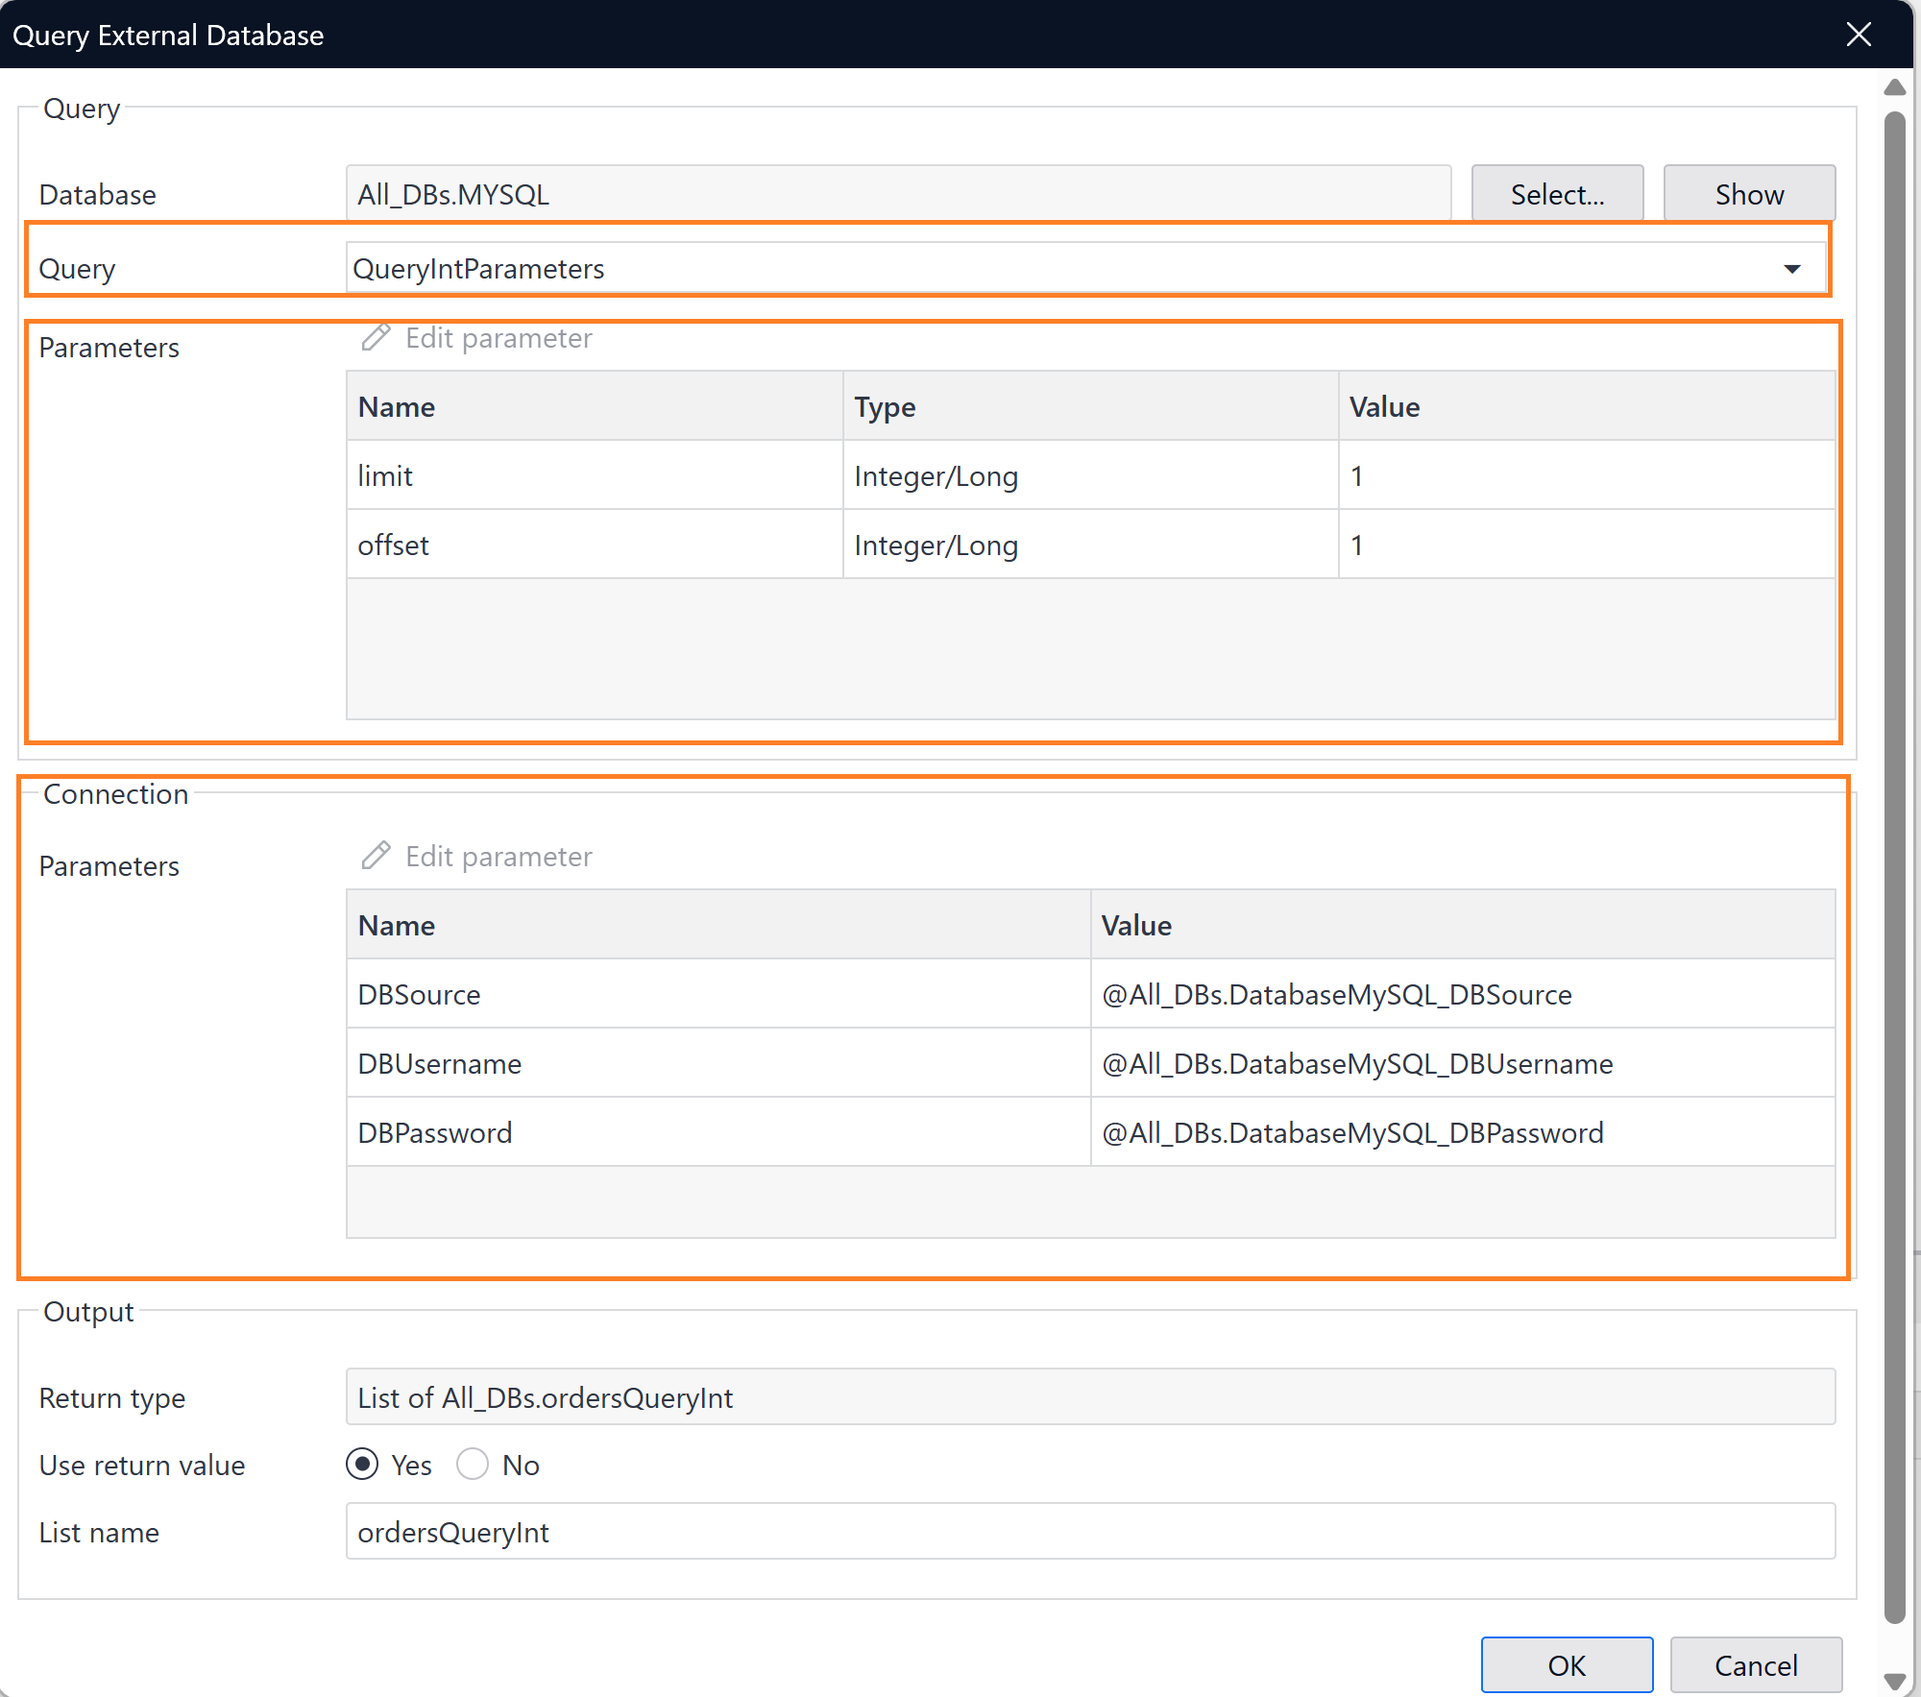
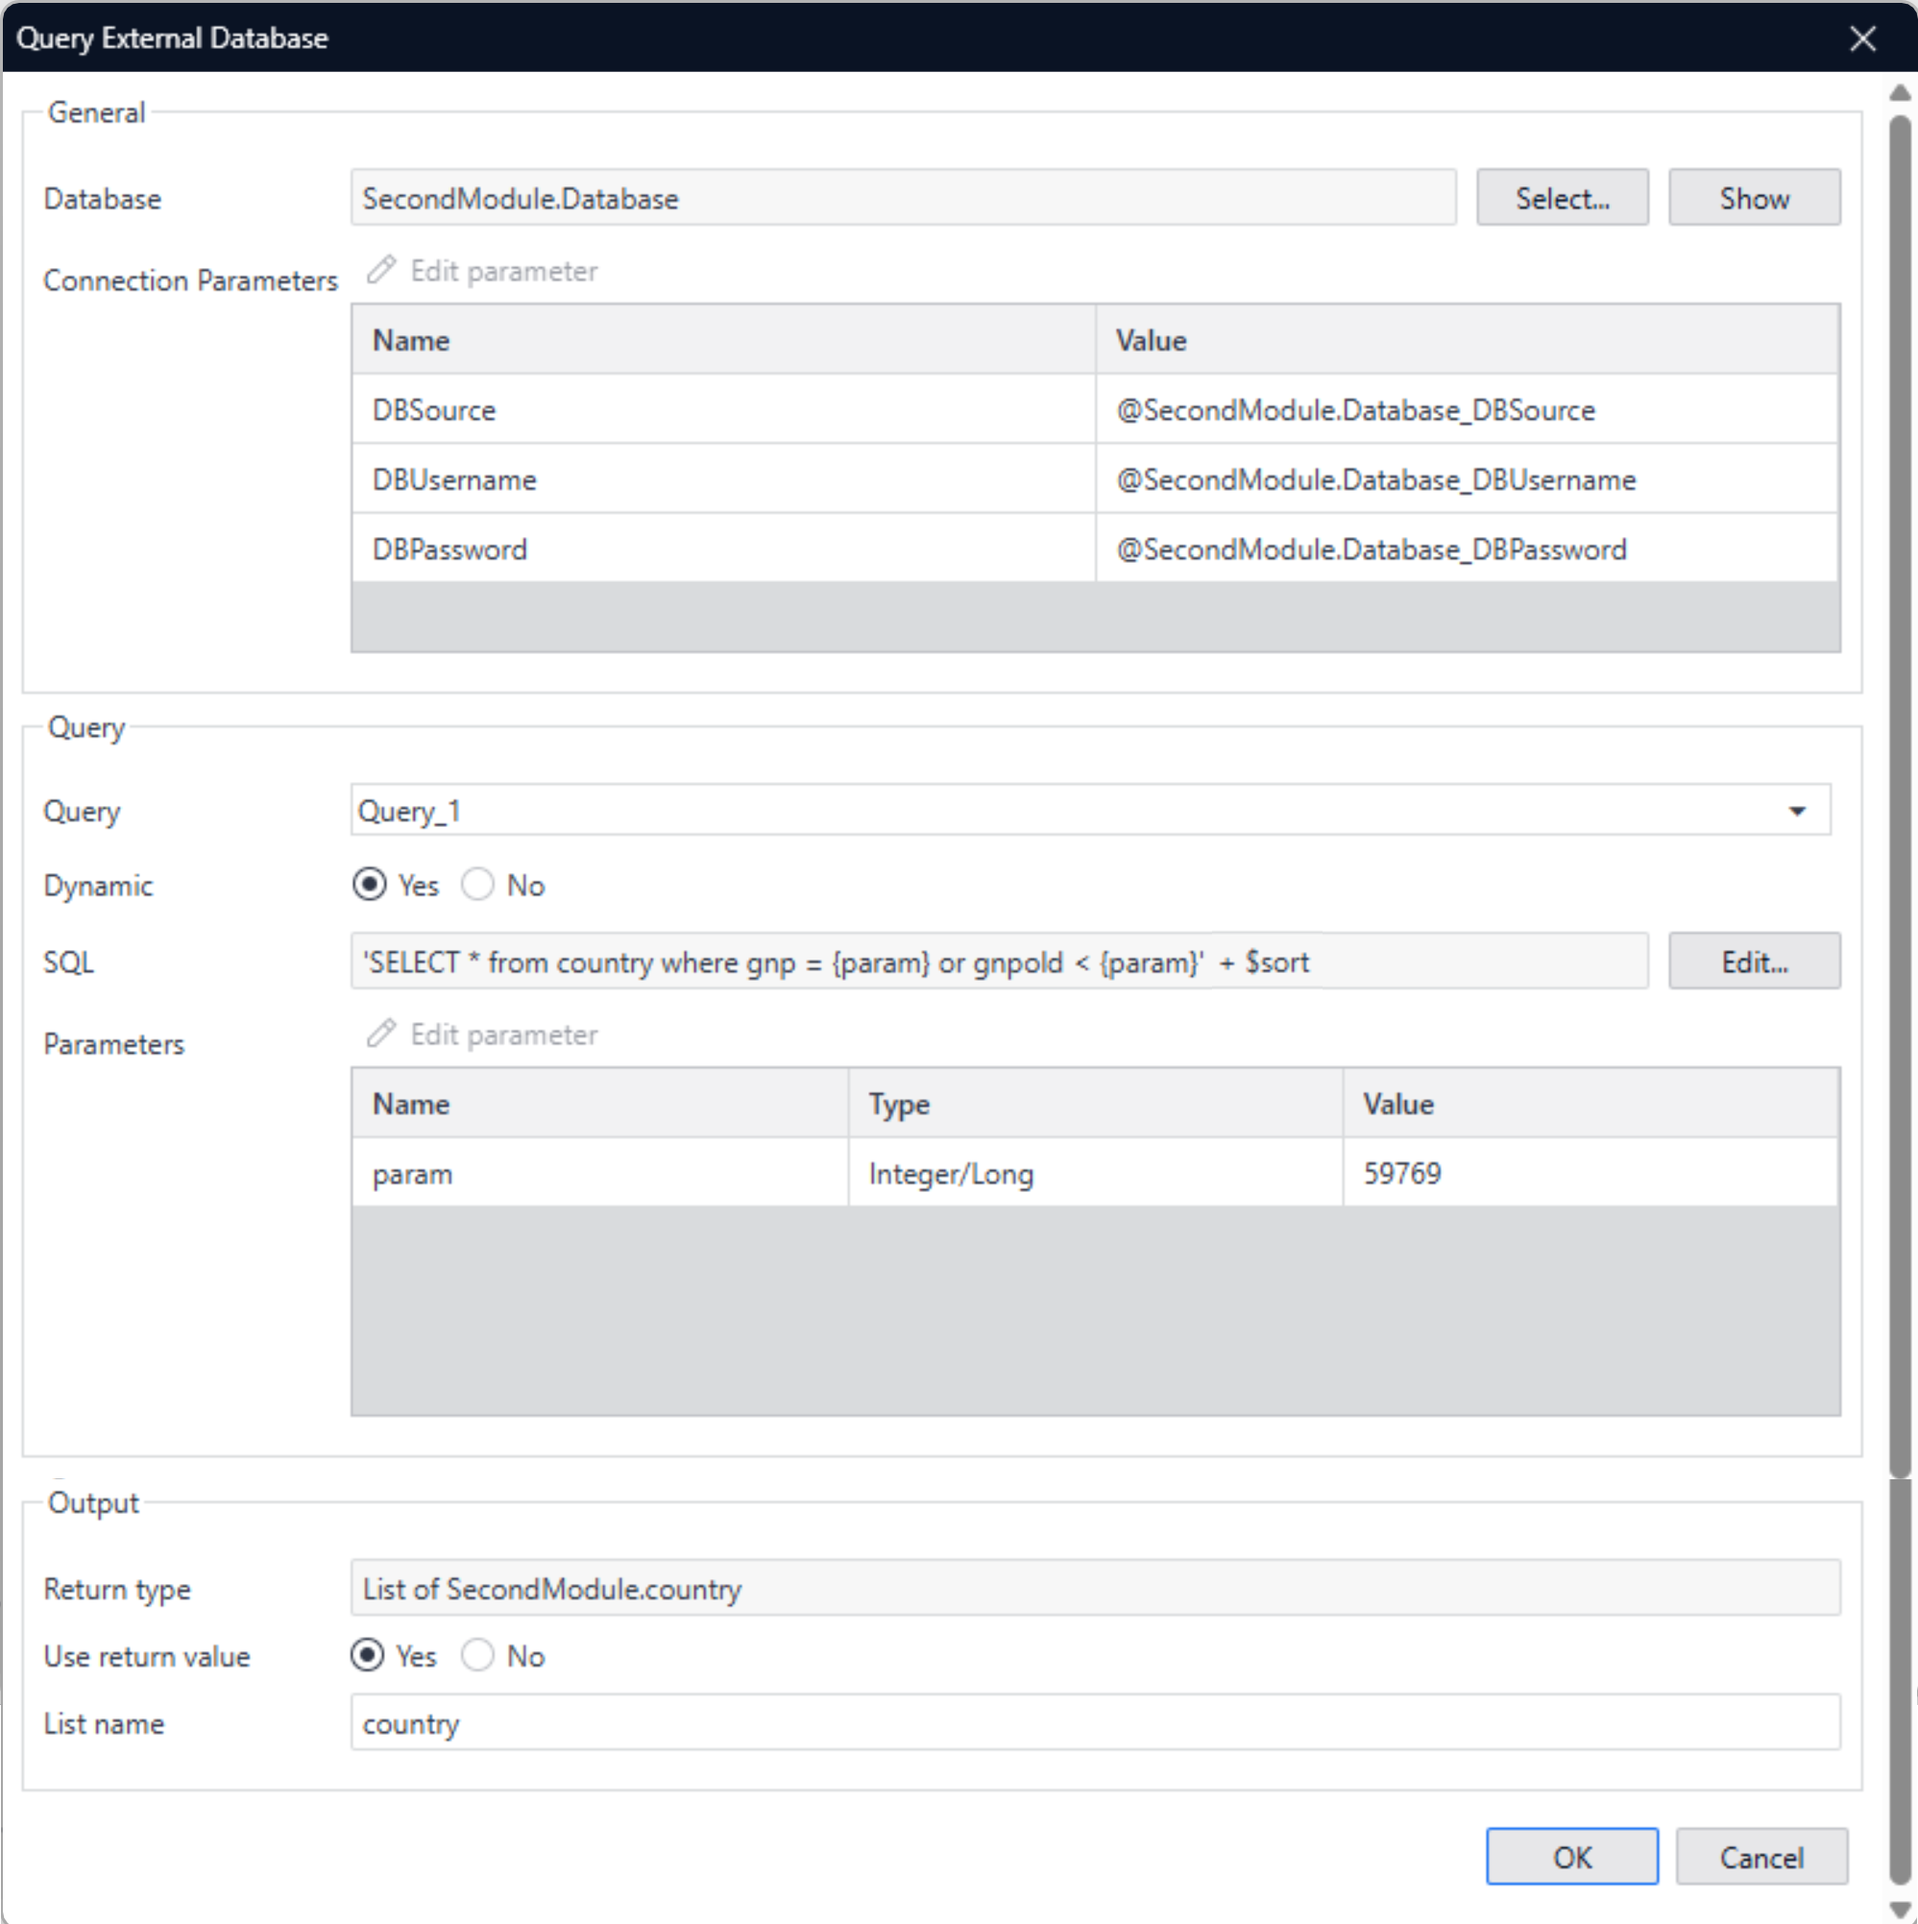
EDC: Support Dynamic queries and update Query External Database dialog

Changed region(s): [[0.0, 0.0, 1.0, 1.0], [0.1863, 0.8093, 0.4036, 0.9338]]

diff --git a/content/en/docs/refguide/modeling/application-logic/microflows-and-nanoflows/activities/integration-activities/query-external-database.md b/content/en/docs/refguide/modeling/application-logic/microflows-and-nanoflows/activities/integration-activities/query-external-database.md
@@ -21,29 +21,36 @@ To learn how to use this activity in a microflow and configure other aspects of 
 
 Double-click the **Query External Database** activity to view its properties.
 
-The **Query** section contains the following properties:
+The **General** section contains the following properties, which are used to provide dynamic connection parameter values:
 
 * **Database** – the name of the database you want to query
+
+* **Connection Parameters**
+    * **DBSource** – Enter the JDBC URL you want to use for connection during runtime
+    * **DBUsername** – Enter the username you want to use for connection during runtime
+    * **DBPassword** – Enter the password you want to use for connection during runtime
+
+    If you are using SSL based authentication for Postgres, provide the value for
+
+    * **ClientCertificateIdentifier**
+
+    If you are using key-pair authentication for Snowflake, provide the value for:
+
+    * **PrivateKey**
+    * **Passphrase**
+
+The **Query** section contains the following properties:
+
 * **Query** – the saved SQL query from your configuration of the Database connector
+* **Dynamic** - Choose **Yes** to update the query using variables
 * **Parameters** – the saved parameters from your configuration of the Database connector
-
-The **Connection** section contains the following properties, which are used to provide dynamic connection parameter values:
-
-* **DBSource** – Enter the JDBC URL you want to use for connection during runtime
-* **DBUsername** – Enter the username you want to use for connection during runtime
-* **DBPassword** – Enter the password you want to use for connection during runtime
-
-If you are using SSL based authentication for Postgres, provide the value for
-
-* **ClientCertificateIdentifier**
-
-If you are using key-pair authentication for Snowflake, provide the value for:
-
-* **PrivateKey**
-* **Passphrase**
 
 In the **Output** section are the following properties:
 
 * **Return type** – the return type once the microflow is completed
 * **Use return value** – select **Yes** or **No**
     * **List name** – if **Use return value** is set to **Yes**, this is the name of the returned list
+
+{{% alert color="warning" %}}
+It is your responsibility to apply the proper security, as this action can allow for SQL injection into your application. Do not use user-supplied or environment-supplied variables in your SQL statement; if possible, you should prefer them to be static.
+{{% /alert %}}
